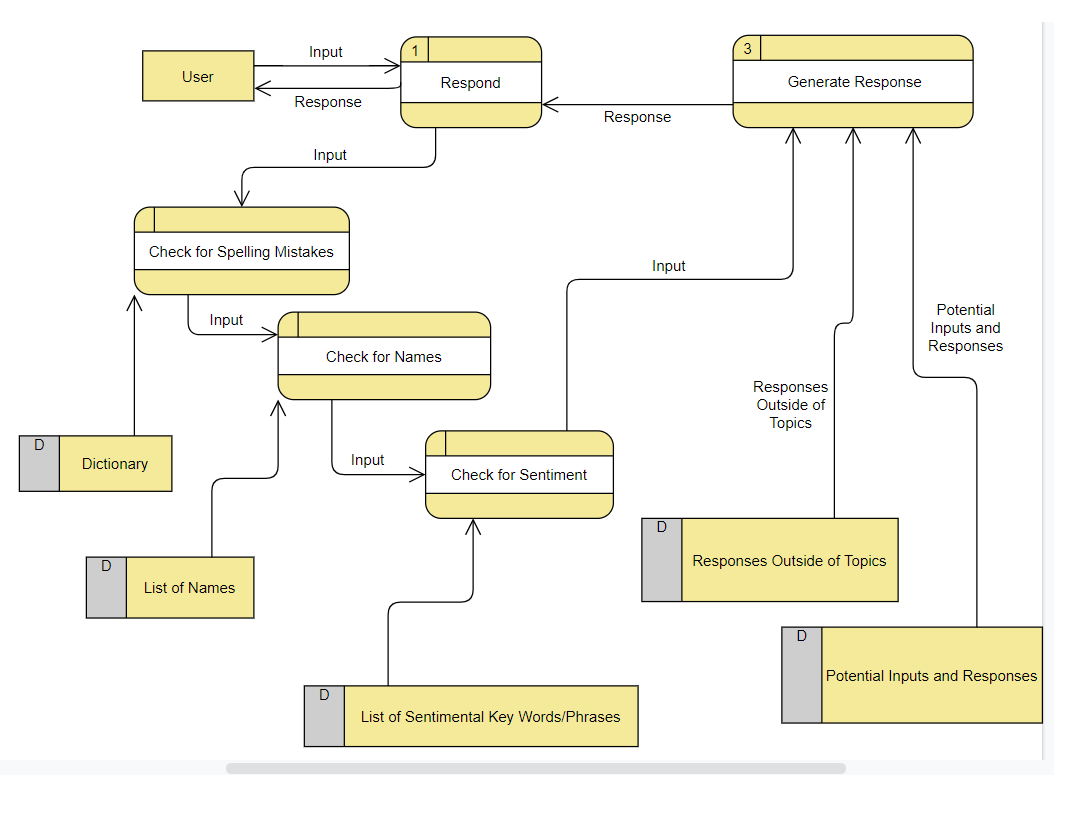
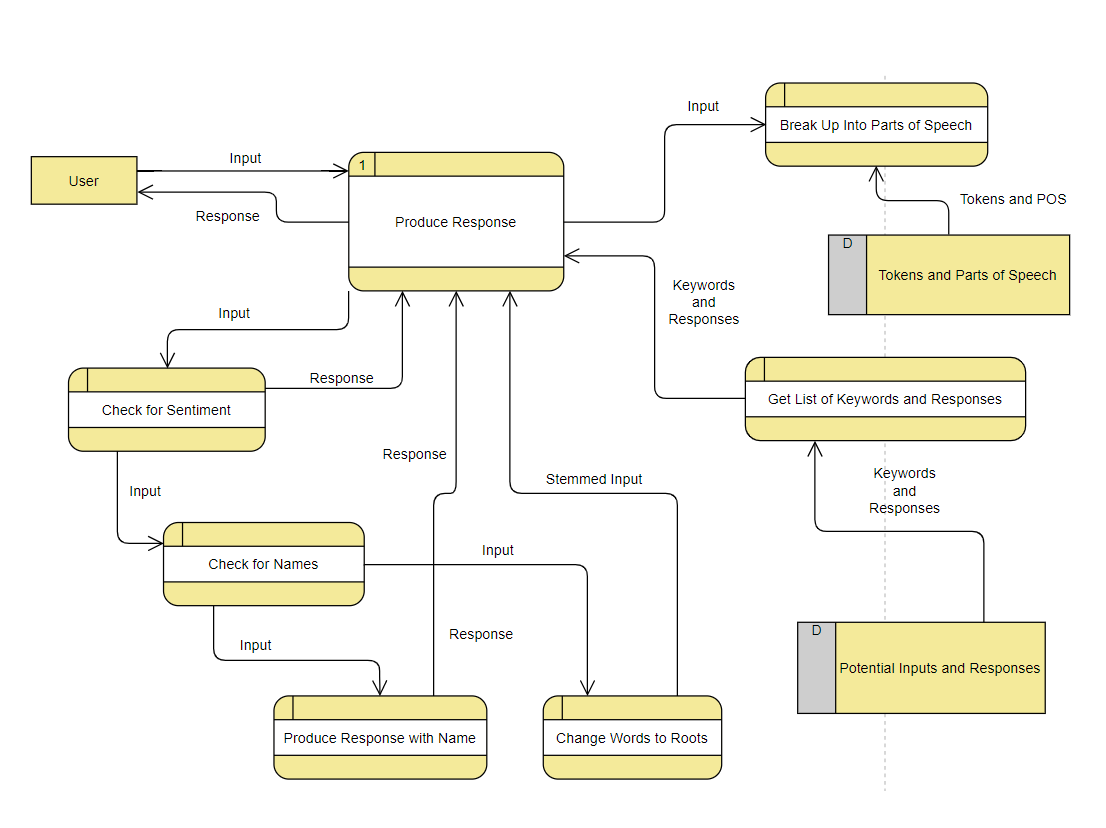
New Level 0 DFD

diff --git a/Documentations/readme.md b/Documentations/readme.md
@@ -19,7 +19,7 @@ This folder will contain all documentations
 
 This dataflow diagram shows a generalized overview of how information is passed through the chatbot. The diagram generalizes classes and their functions into processes which are labeled with verbs, while data and their sources are labelled with nouns. 
 
-The input is taken in from the user through the GUI and is then broken up into Parts of Speech. The input is then analyzed to produce a response through several processes. First, the input is checked for sentiment and a sentimental response is returned if so. Next if no names are present, the input is "stemmed" or each word of the input is turned into a root for easier analysis. If there is a name present, the input is not stemmed and the name is identified and used in a response phrase including that name. Finally, a list of keywords and phrases are used to produce canned responses to topics if none of the other methods have produced a response. The response is then printed on the GUI alongside the input for the user to see.
+The input is taken in from the user through the GUI and is then broken up into Parts of Speech. The input is then analyzed to produce a response through several processes. First, the input is checked for sentiment and a sentimental response is returned if so. Next the input is checked for containing a name. Next if no name is present, the input is "stemmed" or each word of the input is turned into a root for easier analysis. If there is a name present, the input is not stemmed and the name is identified and used in a response phrase including that name. Finally, a list of keywords and phrases are passed and used to produce a response if the other methods have not and a canned response is used if this also does not produce a response. The response is then printed on the GUI for the user to see.
 
 ![alt text](https://github.com/COSC310-Project-Group-8/AssignmentTwo/blob/fd0bcfeda9833c60a80bb416c56657d18d4f362c/Documentations/Level%201%20Data%20Flow%20Diagram.png?raw=true)
 
